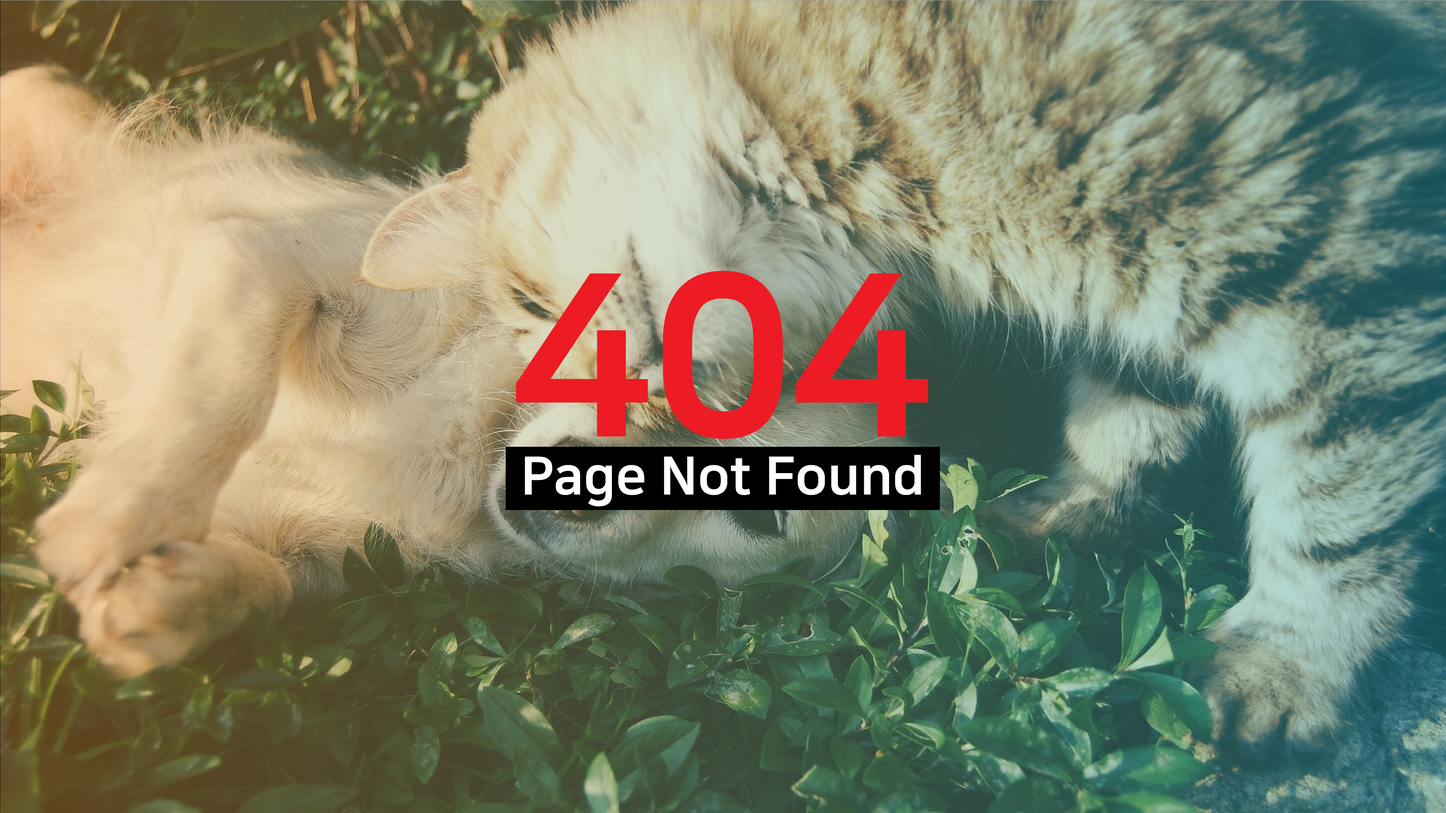
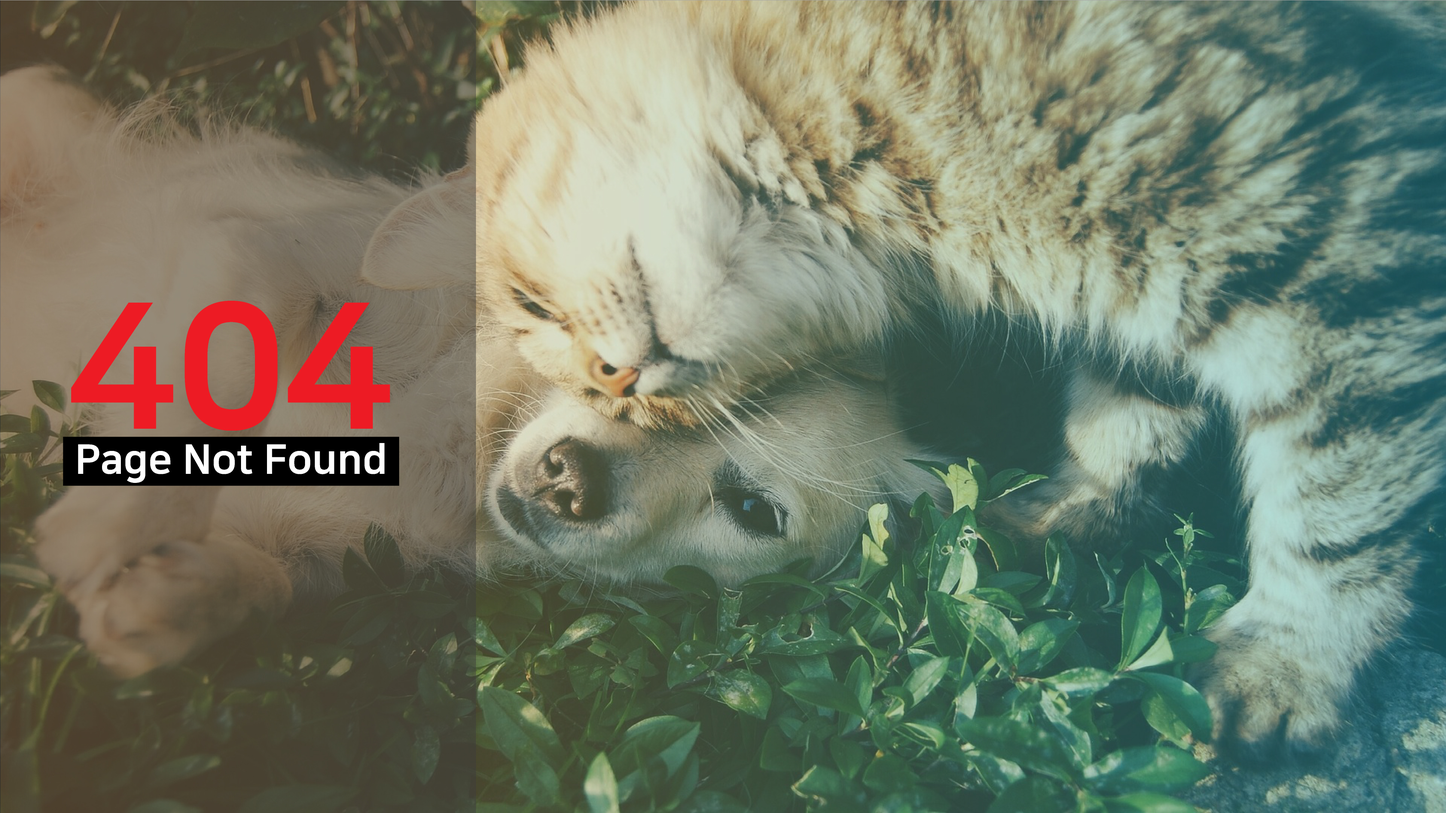
404 페이지 업로드

diff --git a/templates/404.html b/templates/404.html
@@ -14,9 +14,9 @@
             }
             .pagenotfound {
                 background-image: url(../static/images/PageNotFound.jpg);
-                background-size: 100%;
+                background-size: cover;
                 width: 100%;
-                height: 100vh
+                height: 100vh;
             }
             </style>
     </div>
